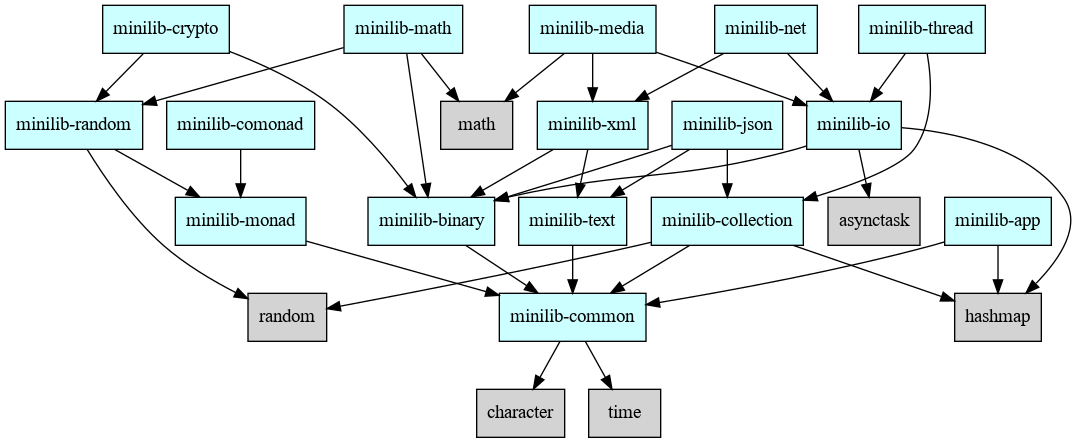
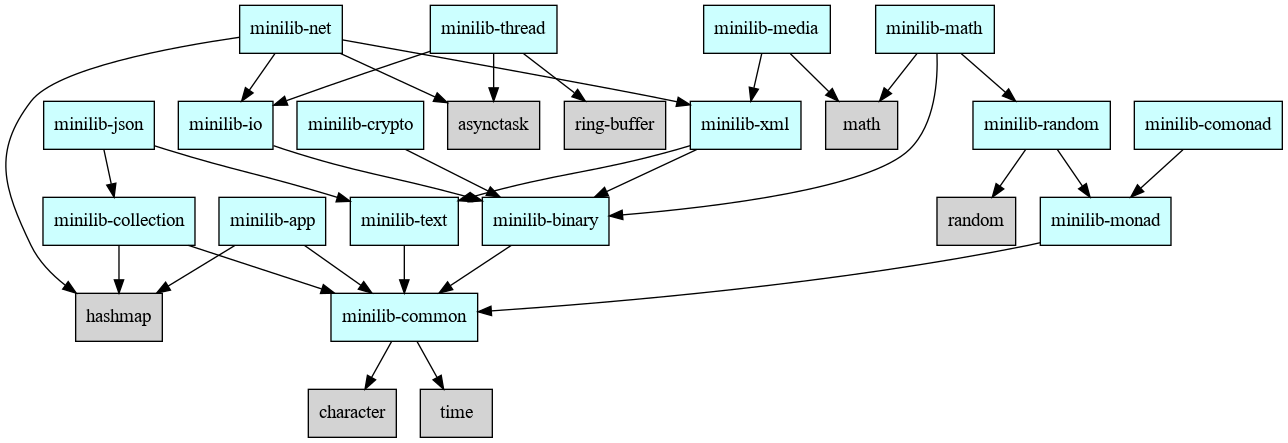
update dependency graph

diff --git a/README.md b/README.md
@@ -44,7 +44,7 @@ fix deps add minilib-common minilib-binary
 
 ### Project dependency diagram
 
-NOTE: Redundant dependencies are not displayed.
+NOTE: Redundant dependencies and test-only dependencies are not displayed.
 
 ![Project dependencies](_projects/dependencies.png)
 
